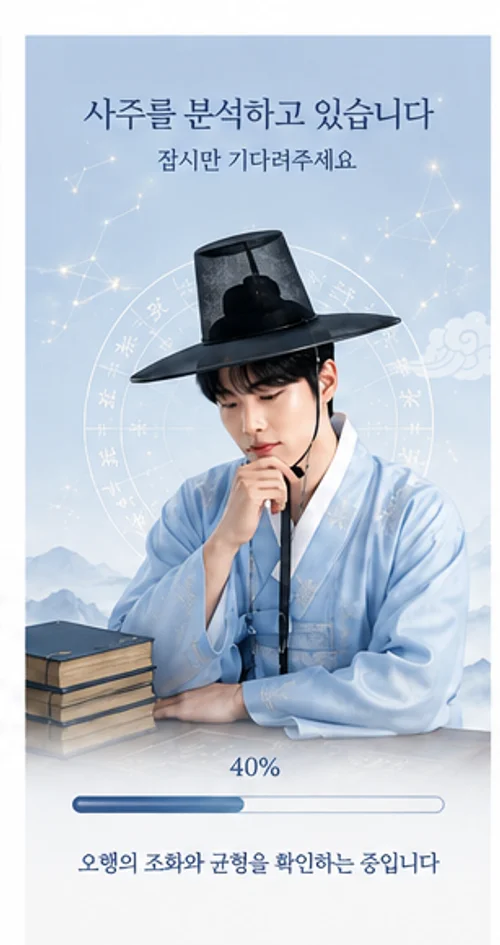
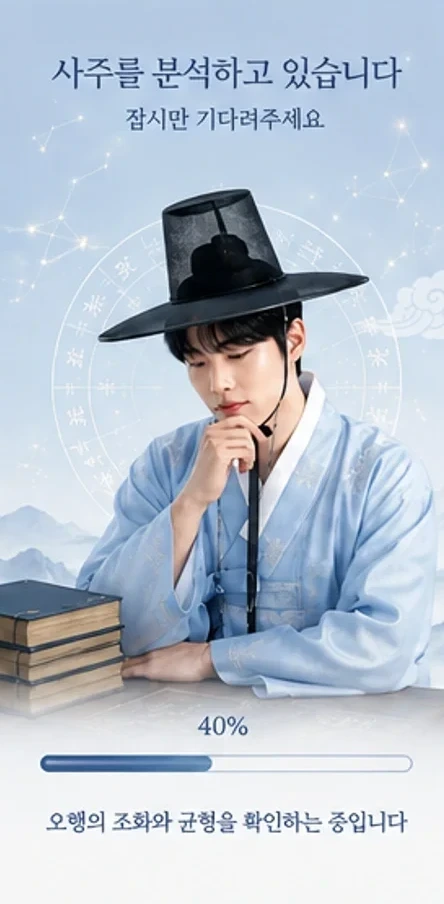
fix: 로딩 화면 캐릭터 이미지의 흰 여백 제거
프레임 원본 이미지 가장자리에 남아있던 흰색 마진/헤어라인을 크롭하고
컨테이너 aspect-ratio를 새 이미지 크기에 맞춰 재조정.

diff --git a/components/screens/AnalyzingScreen.tsx b/components/screens/AnalyzingScreen.tsx
@@ -38,7 +38,7 @@ export default function AnalyzingScreen({ tenantTheme, loadingText, onViewLater 
   if (isCharacterTheme) {
     return (
       <div className="flex flex-col items-center justify-center space-y-6 animate-in fade-in duration-500 text-center">
-        <div className="relative w-full max-w-xs aspect-[307/580] rounded-3xl overflow-hidden shadow-[0_0_30px_rgba(44,65,89,0.2)] border border-[var(--border-default)]">
+        <div className="relative w-full max-w-xs aspect-[111/226] rounded-3xl overflow-hidden shadow-[0_0_30px_rgba(44,65,89,0.2)] border border-[var(--border-default)]">
           <img
             key={frameIndex}
             src={CHARACTER_LOADING_FRAMES[frameIndex]}
